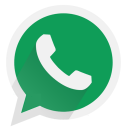
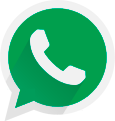
update

diff --git a/paginas/contatos.html b/paginas/contatos.html
@@ -38,7 +38,7 @@
                   <div class="botaol w"><img src="../images/WhatsApp-icon.png" alt="Ícone Whatsapp">WhatsApp</div>
                </a>
             </div>
-            <iframe src="https://www.google.com/maps/embed?pb=!1m14!1m8!1m3!1d1847.9666450740208!2d-51.4006849693151!3d-22.128519046410215!3m2!1i1024!2i768!4f13.1!3m3!1m2!1s0x9493f445a7594f55%3A0x9681b7f0cc047539!2sParque%20do%20Povo!5e0!3m2!1spt-BR!2sbr!4v1666314670170!5m2!1spt-BR!2sbr" width="348" height="300" style="border:0;" allowfullscreen="" loading="lazy" referrerpolicy="no-referrer-when-downgrade"></iframe>
+            <iframe src="https://www.google.com/maps/embed?pb=!1m18!1m12!1m3!1d473631.5047991212!2d-51.3537843!3d-21.9635147!2m3!1f0!2f0!3f0!3m2!1i1024!2i768!4f13.1!3m3!1m2!1s0x9493f5b311570c5b%3A0xda475801fc46afb9!2sPres.%20Prudente%20-%20SP!5e0!3m2!1spt-BR!2sbr!4v1666319324242!5m2!1spt-BR!2sbr" width="348" height="300" style="border:0;" allowfullscreen="" loading="lazy" referrerpolicy="no-referrer-when-downgrade"></iframe>
          </main>
          <div id="footer"></div>
     </body>

diff --git a/styles/contatos.css b/styles/contatos.css
@@ -3,11 +3,12 @@
 main {
     height: 450px;
     max-width: 500px;
+    box-shadow: 2px 2px 4px #ffffff6d;
 }
 
 .botoes{
     position: relative;
-    top: 7%;
+    top: 8%;
     left: 50%;
 }
 
@@ -19,7 +20,9 @@ main {
 main iframe {
     position: relative;
     display: block;
+    border-radius: 20px;
     top: 9%;
     left: 50%;
+    box-shadow: 2px 2px 4px #00000047;
     transform: translate(-50%);
 }

diff --git a/styles/style.css b/styles/style.css
@@ -192,9 +192,15 @@ div.botoes div{
     background: linear-gradient(to bottom, #4c536729,black);
 }
 
-div.botaog > img, div.botaol > img {
+div.botaog > img {
     width: 20px;
     margin-right: 6px;
+    transform: translate(0%, 15%);
+}
+
+div.botaol > img {
+    width: 20px;
+    margin-right: 5px;
     transform: translate(0%, 15%);
 }
 

diff --git a/paginas/header.html b/paginas/header.html
@@ -17,7 +17,6 @@
         <ul>
             <li><a href="../index.html">Home</a></li>
             <li><a href="../paginas/trabalhos.html">Trabalhos</a></li>
-            <li><a href="../paginas/interesses.html">Interesses</a></li>
             <li><a href="../paginas/contatos.html">Contatos</a></li>
         </ul>
     </menu>

diff --git a/index.html b/index.html
@@ -23,7 +23,6 @@
         <ul>
             <li><a href="index.html">Home</a></li>
             <li><a href="paginas/trabalhos.html">Trabalhos</a></li>
-            <li><a href="paginas/interesses.html">Interesses</a></li>
             <li><a href="paginas/contatos.html">Contatos</a></li>
         </ul>
     </menu>
